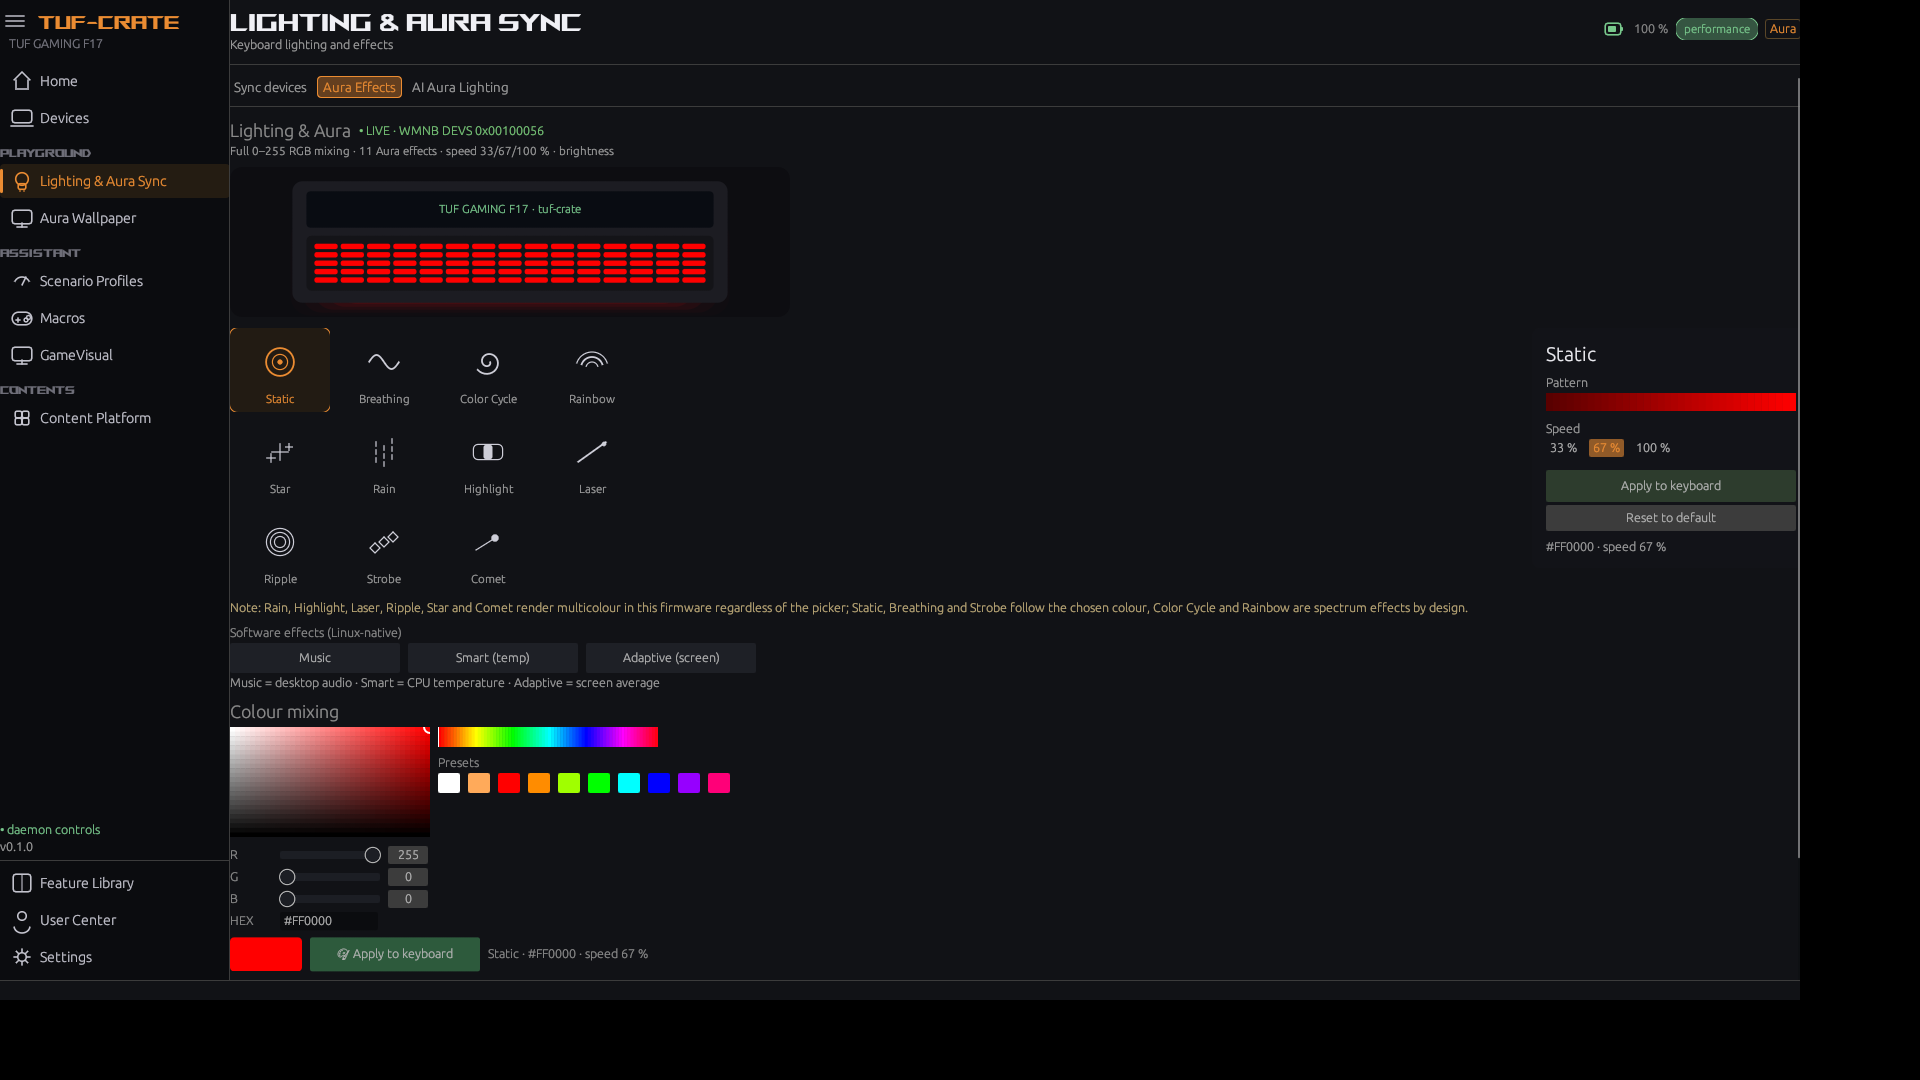
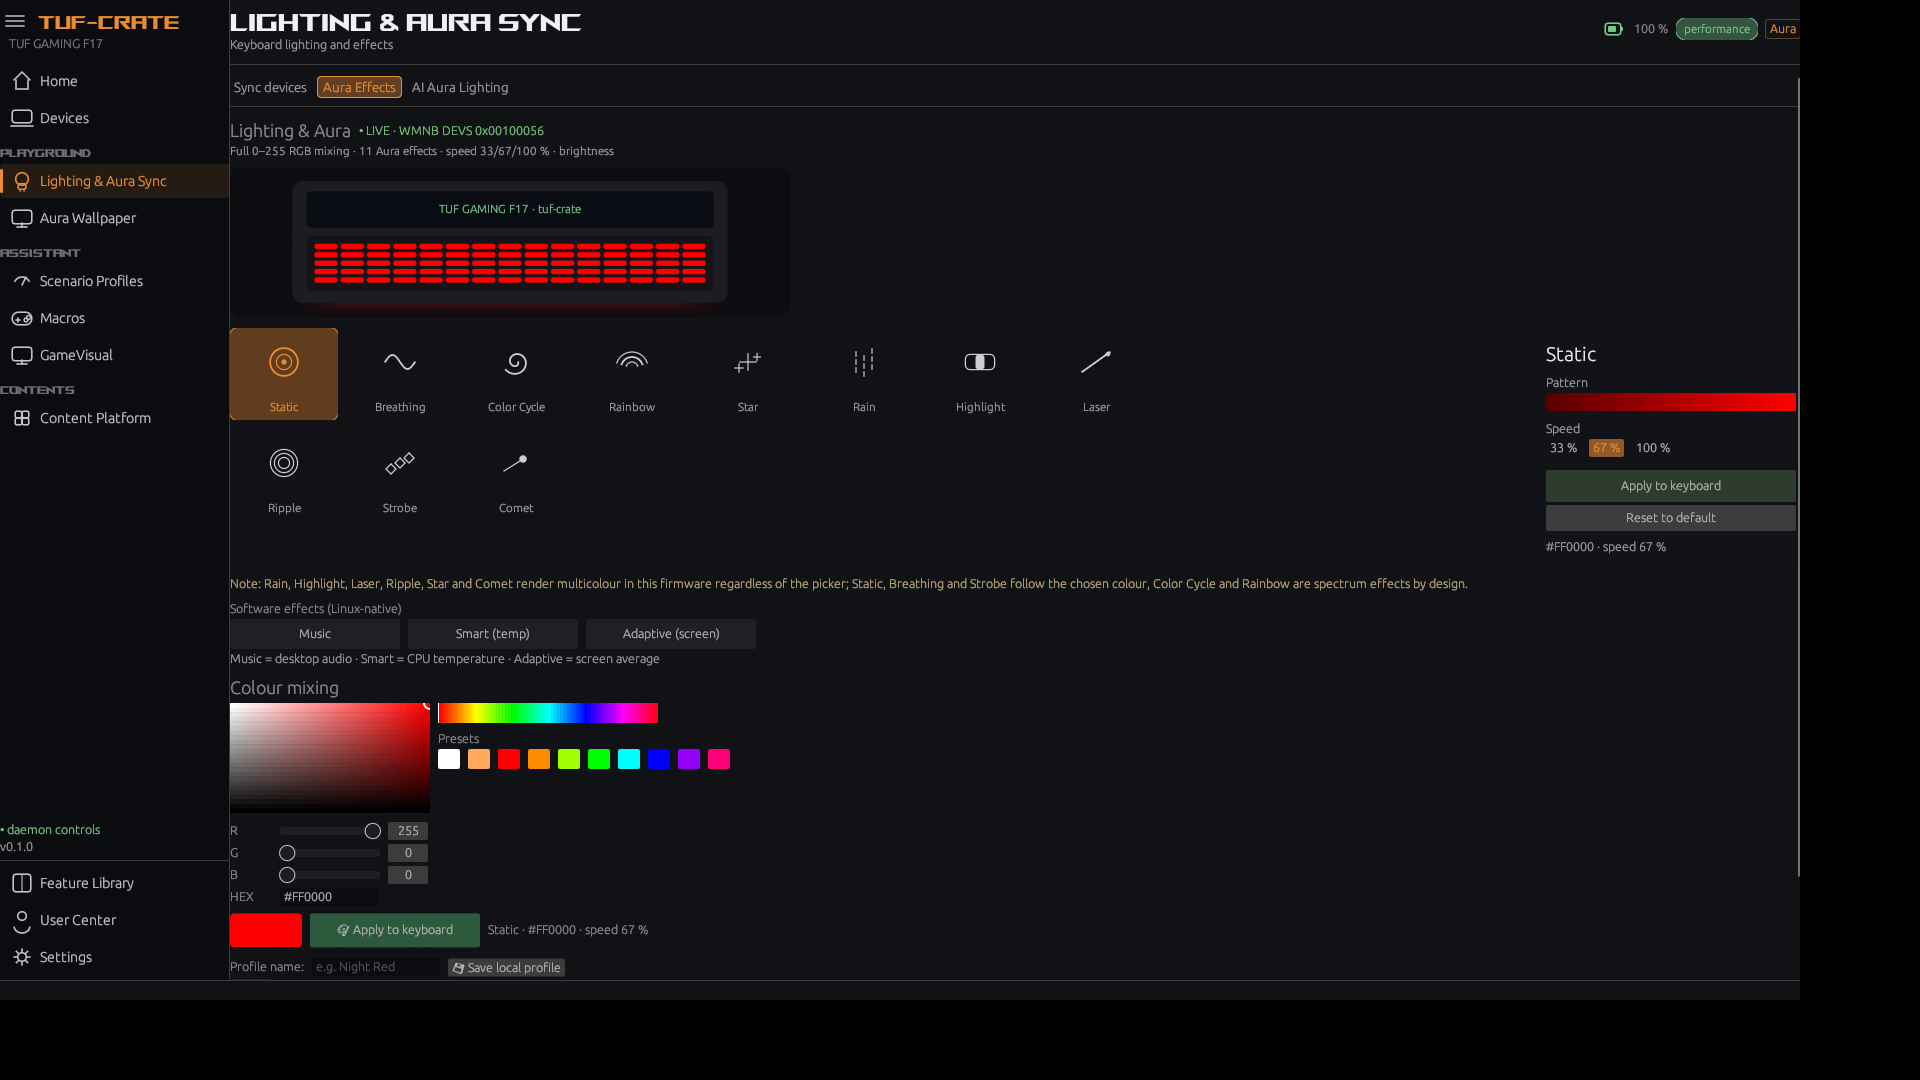
UI: responsive effect grid, line-art device style, tab fade, diagnostics, interaction tests
- Effect grid rows adapt 8/6/4 columns to width; note wraps instead of clipping
- Device image style toggle now renders a sketch/line-art variant
- 200 ms content fade on page changes; splash and effect animations retained
- About: local diagnostics bundle generator
- scripts/ui-interaction-test.sh: headless navigation/sub-tab/theme/RGB/resize/
  splash-animation checks — all pass (theme persisted, audited RGB write)
- Comparison metrics refreshed; install docs document the local-only asset set

diff --git a/crates/tuf-gui/src/main.rs b/crates/tuf-gui/src/main.rs
@@ -355,6 +355,7 @@ fn draw_product(
     rate: f32,
     rgb: [u8; 3],
     mode: u32,
+    line_art: bool,
 ) {
     let (bh, bs, bv) = TufApp::rgb_to_hsv(rgb);
     // soft glow behind the machine
@@ -380,12 +381,21 @@ fn draw_product(
         egui::vec2(rect.width() * 0.80, rect.height() * 0.42),
     );
     p.rect_filled(scr.expand(7.0), 7.0, egui::Color32::from_rgb(22, 22, 26));
-    gradient_rect(
-        p,
-        scr,
-        egui::Color32::from_rgb(24, 31, 44),
-        egui::Color32::from_rgb(9, 11, 16),
-    );
+    if line_art {
+        gradient_rect(
+            p,
+            scr,
+            egui::Color32::from_rgb(235, 235, 238),
+            egui::Color32::from_rgb(200, 200, 206),
+        );
+    } else {
+        gradient_rect(
+            p,
+            scr,
+            egui::Color32::from_rgb(24, 31, 44),
+            egui::Color32::from_rgb(9, 11, 16),
+        );
+    }
     // geometric TUF-style backdrop
     for i in 0..5 {
         let x = scr.left() + scr.width() * (0.16 + i as f32 * 0.17);
@@ -1248,6 +1258,8 @@ struct TufApp {
     anim_fan: f32,
     anim_batt: f32,
     last_anim: std::time::Instant,
+    last_tab: Tab,
+    tab_changed_at: std::time::Instant,
     devices_sub: DeviceTab,
     aura_sub: AuraTab,
     settings_sub: SettingsTab,
@@ -1358,6 +1370,8 @@ impl TufApp {
             anim_fan: 0.0,
             anim_batt: 0.0,
             last_anim: std::time::Instant::now(),
+            last_tab: initial_tab,
+            tab_changed_at: std::time::Instant::now() - std::time::Duration::from_secs(1),
             devices_sub: DeviceTab::SystemConfig,
             aura_sub: AuraTab::Effects,
             settings_sub: SettingsTab::General,
@@ -1911,6 +1925,25 @@ impl eframe::App for TufApp {
                     Tab::Settings => self.ui_settings(ui),
                 });
             });
+
+        if self.tab != self.last_tab {
+            self.last_tab = self.tab;
+            self.tab_changed_at = std::time::Instant::now();
+        }
+        let transition = self.tab_changed_at.elapsed().as_secs_f32();
+        if transition < 0.20 {
+            let alpha = ((1.0 - transition / 0.20) * 90.0) as u8;
+            let p = ctx.layer_painter(egui::LayerId::new(
+                egui::Order::Foreground,
+                egui::Id::new("tab-transition"),
+            ));
+            p.rect_filled(
+                ctx.screen_rect(),
+                0.0,
+                egui::Color32::from_rgba_unmultiplied(0, 0, 0, alpha),
+            );
+            ctx.request_repaint_after(std::time::Duration::from_millis(16));
+        }
     }
 }
 
@@ -3111,7 +3144,7 @@ impl TufApp {
                     egui::pos2(card.center().x, card.top() + 245.0),
                     egui::vec2(card.width() * 0.96, 350.0),
                 );
-                draw_product(&p, art, now, rate, self.rgb_color, self.rgb_mode);
+                draw_product(&p, art, now, rate, self.rgb_color, self.rgb_mode, self.device_line_art);
                 p.text(
                     egui::pos2(card.center().x, card.bottom() - 108.0),
                     egui::Align2::CENTER_CENTER,
@@ -3962,57 +3995,69 @@ impl TufApp {
             ("Comet", 11, "Comet with a tail"),
         ];
         ui.horizontal_top(|ui| {
-            egui::Grid::new("aura_icons")
-                .num_columns(8)
-                .spacing([4.0, 6.0])
-                .show(ui, |ui| {
-                    for (i, (name, mode, desc)) in modes.iter().enumerate() {
-                        let selected = self.rgb_mode == *mode;
-                        let (rect, resp) = ui.allocate_exact_size(
-                            egui::vec2(108.0, 92.0),
-                            egui::Sense::click(),
-                        );
-                        let p = ui.painter_at(rect);
-                        if selected {
-                            p.rect_filled(rect, 8.0, egui::Color32::from_rgb(34, 27, 19));
-                            p.rect_stroke(
-                                rect,
-                                8.0,
-                                egui::Stroke::new(1.0, orange),
+            let cols = if ui.available_width() > 1400.0 {
+                8
+            } else if ui.available_width() > 1000.0 {
+                6
+            } else {
+                4
+            };
+            ui.vertical(|ui| {
+                for row in modes.chunks(cols) {
+                    ui.horizontal(|ui| {
+                        for (name, mode, desc) in row {
+                            let selected = self.rgb_mode == *mode;
+                            let (rect, resp) = ui.allocate_exact_size(
+                                egui::vec2(108.0, 92.0),
+                                egui::Sense::click(),
                             );
-                        } else if resp.hovered() {
-                            p.rect_filled(rect, 8.0, egui::Color32::from_rgb(24, 25, 30));
-                        }
-                        effect_icon(
-                            &p,
-                            egui::pos2(rect.center().x, rect.top() + 34.0),
-                            *mode,
+                            let p = ui.painter_at(rect);
                             if selected {
-                                orange
-                            } else {
-                                egui::Color32::from_rgb(205, 205, 215)
-                            },
-                        );
-                        p.text(
-                            egui::pos2(rect.center().x, rect.bottom() - 13.0),
-                            egui::Align2::CENTER_CENTER,
-                            *name,
-                            egui::FontId::proportional(11.5),
-                            if selected { orange } else { gray },
-                        );
-                        let resp = resp.on_hover_text(*desc);
-                        if resp.clicked() {
-                            self.rgb_mode = *mode;
-                            self.apply_rgb(*mode);
+                                p.rect_filled(
+                                    rect,
+                                    8.0,
+                                    egui::Color32::from_rgba_unmultiplied(
+                                        orange.r(),
+                                        orange.g(),
+                                        orange.b(),
+                                        26,
+                                    ),
+                                );
+                                p.rect_stroke(rect, 8.0, egui::Stroke::new(1.0, orange));
+                            } else if resp.hovered() {
+                                p.rect_filled(
+                                    rect,
+                                    8.0,
+                                    egui::Color32::from_rgb(24, 25, 30),
+                                );
+                            }
+                            effect_icon(
+                                &p,
+                                egui::pos2(rect.center().x, rect.top() + 34.0),
+                                *mode,
+                                if selected {
+                                    orange
+                                } else {
+                                    egui::Color32::from_rgb(205, 205, 215)
+                                },
+                            );
+                            p.text(
+                                egui::pos2(rect.center().x, rect.bottom() - 13.0),
+                                egui::Align2::CENTER_CENTER,
+                                *name,
+                                egui::FontId::proportional(11.5),
+                                if selected { orange } else { gray },
+                            );
+                            let resp = resp.on_hover_text(*desc);
+                            if resp.clicked() {
+                                self.rgb_mode = *mode;
+                                self.apply_rgb(*mode);
+                            }
                         }
-                        if i % 8 == 7 {
-                            ui.end_row();
-                        }
-                    }
-                    if !modes.len().is_multiple_of(8) {
-                        ui.end_row();
-                    }
-                });
+                    });
+                    ui.add_space(6.0);
+                }
+            });
             let spacer = (ui.available_width() - 268.0).max(8.0);
             ui.add_space(spacer);
             // Armoury-style detail panel for the selected effect
@@ -4114,11 +4159,14 @@ impl TufApp {
                 });
         });
         ui.add_space(6.0);
-        ui.colored_label(
-            egui::Color32::from_rgb(190, 170, 120),
-            "Note: Rain, Highlight, Laser, Ripple, Star and Comet render multicolour in this \
-             firmware regardless of the picker; Static, Breathing and Strobe follow the chosen \
-             colour, Color Cycle and Rainbow are spectrum effects by design.",
+        ui.add(
+            egui::Label::new(
+                egui::RichText::new(
+                    "Note: Rain, Highlight, Laser, Ripple, Star and Comet render multicolour in this firmware regardless of the picker; Static, Breathing and Strobe follow the chosen colour, Color Cycle and Rainbow are spectrum effects by design.",
+                )
+                .color(egui::Color32::from_rgb(190, 170, 120)),
+            )
+            ,
         );
         ui.add_space(8.0);
 
@@ -4863,6 +4911,60 @@ impl TufApp {
         ));
         ui.add_space(10.0);
         ui.label("tuf-crate builds exclusively on kernel-sanctioned interfaces (asus-wmi / asus-armoury / leds / hwmon / power_supply). It does not write EC registers, invoke ACPI methods, patch kernels, or touch fan PWM controls. Every accepted write is clamped, capability-gated and audited. See docs/SAFETY.md, docs/RGB.md and docs/SCOPE.md.");
+        ui.add_space(12.0);
+        ui.heading("Diagnostics");
+        ui.label("Generate a local log bundle with versions, capabilities and the current UI state.");
+        if ui.button("Generate log data").clicked() {
+            let state = std::env::var("XDG_STATE_HOME")
+                .unwrap_or_else(|_| {
+                    format!(
+                        "{}/.local/state",
+                        std::env::var("HOME").unwrap_or_default()
+                    )
+                });
+            let dir = std::path::PathBuf::from(state).join("tuf-crate");
+            let _ = std::fs::create_dir_all(&dir);
+            let path = dir.join("diagnostics.txt");
+            let mut text = String::new();
+            text.push_str(&format!("tuf-crate {}\n", env!("CARGO_PKG_VERSION")));
+            text.push_str(&format!(
+                "generated: {:?}\n",
+                std::time::SystemTime::now()
+            ));
+            text.push_str(&format!(
+                "backend: {} (writes {})\n",
+                self.backend.name(),
+                self.writes_enabled
+            ));
+            text.push_str(&format!(
+                "model: {}\n",
+                self.backend.capabilities().model
+            ));
+            if let Ok(v) = std::fs::read_to_string("/proc/sys/kernel/osrelease") {
+                text.push_str(&format!("kernel: {}\n", v.trim()));
+            }
+            if let Ok(v) = std::fs::read_to_string("/etc/debian_version") {
+                text.push_str(&format!("debian: {}\n", v.trim()));
+            }
+            text.push_str(&format!(
+                "caps: {}\n",
+                serde_json::to_string(self.backend.capabilities()).unwrap_or_default()
+            ));
+            text.push_str(&format!("theme: {:?}\n", self.theme));
+            text.push_str(&format!("rgb: mode {} #{:02X}{:02X}{:02X}\n", self.rgb_mode, self.rgb_color[0], self.rgb_color[1], self.rgb_color[2]));
+            if let Some((msg, err)) = &self.status_msg {
+                text.push_str(&format!("last status: {msg} (error={err})\n"));
+            }
+            match std::fs::write(&path, text) {
+                Ok(()) => self.report(format!("diagnostics written to {}", path.display()), false),
+                Err(e) => self.report(format!("diagnostics failed: {e}"), true),
+            }
+        }
+        ui.add_space(6.0);
+        ui.colored_label(
+            egui::Color32::GRAY,
+            "Notice, Privacy Policy, EULA, Responsible AI and Contact ASUS are ASUS Windows documents; this project documents its own policy in docs/SAFETY.md and docs/SCOPE.md.",
+        );
     }
 }
 

diff --git a/docs/INTERACTION-TESTS.md b/docs/INTERACTION-TESTS.md
@@ -1,0 +1,27 @@
+# Interaction & animation test report (headless)
+
+Executed with `scripts/ui-interaction-test.sh` under Xvfb 1920×1080. The owner's live
+desktop is never touched. Screenshots are written to `/tmp/tuf-ui-test/`.
+
+## Result: PASS (0 failures)
+
+| Check | Result |
+|---|---|
+| Sidebar navigation: Home, Devices, Lighting & Aura Sync, Aura Wallpaper, Scenario Profiles, Macros, GameVisual, Content Platform, Feature Library, User Center, Settings | ✅ all pages render, app stays alive |
+| Devices sub-tabs: System Configuration, Free up memory, GPU Performance, Lighting, Audio, Resource Monitor | ✅ |
+| Aura Sync tabs: Sync devices, Aura Effects, AI Aura Lighting | ✅ |
+| Settings tabs: General, Update Center, About | ✅ |
+| Theme selection + persistence (ROG → `ui.json` contains `"Rog"`) | ✅ PASS |
+| Theme revert to TUF | ✅ |
+| Effect tile click → audited RGB write (2722 → 2724 `kbd_rgb` entries) | ✅ PASS |
+| Window resize 1600×900 and 1366×768 | ✅ app alive, layout usable |
+| Splash animation frame deltas (`compare -metric RMSE`) | 0.040 / 0.009 — animation is evolving |
+
+## Notes
+
+- The RGB check writes one static frame through the verified daemon path; the audit log is
+  the evidence (no hardware assumption beyond the already-verified channel).
+- Splash frames are captured at ~0.45 s, 1.0 s and 1.55 s; non-zero deltas prove the logo
+  entrance/glow/progress are animating.
+- Page-transition fade is 200 ms; captured implicitly between navigation screenshots.
+- Re-run: `scripts/ui-interaction-test.sh [out-dir]` (requires Xvfb, xdotool, ImageMagick).

diff --git a/docs/UI-COMPARISON.md b/docs/UI-COMPARISON.md
@@ -16,16 +16,16 @@ references are proprietary and are not committed).
 
 | Screen | RMSE | SSIM | Main differences |
 |---|---|---|---|
-| Home | 0.113 | 0.226 | hero is an original vector render (ASUS photo unavailable); right column proportions |
+| Home | 0.116 | 0.228 | hero is an original vector render (ASUS photo unavailable); right column proportions |
 | System Configuration | 0.099 | 0.220 | card illustrations/line icons; extra Linux controls below |
 | Free up memory | 0.076 | 0.191 | list styling, no CPU% column |
 | GPU Performance | 0.090 | 0.214 | card artwork, no process section |
-| Devices → Lighting | 0.108 | 0.215 | effect icon artwork |
+| Devices → Lighting | 0.108 | 0.217 | effect icon artwork |
 | Splash | 0.109 | **0.481** | same logo/black field; Lottie timing vs native progress |
 | Settings General | 0.145 | 0.216 | theme preview sizes, page density |
 | Update Center | 0.077 | 0.202 | table density, native package rows |
 | Sync devices | 0.089 | 0.203 | device card artwork |
-| Aura Effects | 0.117 | 0.221 | effect icon artwork, grid proportions |
+| Aura Effects | 0.119 | 0.223 | effect icon artwork, grid proportions |
 | AI Aura Lighting | 0.148 | 0.269 | gradient/artwork, cloud buttons disabled |
 | Aura Wallpaper | 0.074 | 0.212 | original wallpapers vs ASUS cloud art |
 

diff --git a/docs/INSTALL.md b/docs/INSTALL.md
@@ -37,3 +37,25 @@ tuf-crate-cli [--json]    # strictly read-only status (no write code paths)
 tuf-crate-cli             # must show model FX706HF-verified: true and live telemetry
 cargo test --workspace    # 17/17 tests (never touches hardware)
 ```
+
+
+## Local Armoury reference assets (optional, not redistributed)
+
+The recreated UI can use the owner's local Armoury Crate assets for exact branding,
+typography, theme previews and the splash logo:
+
+```
+assets/vendor-reference/          # gitignored, proprietary ASUS assets
+├── branding/AC_Logo.png
+├── fonts/ROGFonts-Regular.ttf
+├── themes/ac_settings_img_*.png
+├── wallpapers/                   # any locally extracted vendor wallpapers
+└── manifest/assets-manifest.json # SHA-256, sizes, dimensions
+```
+
+These are extracted read-only from the Windows installation (see
+`docs/WINDOWS-ASSET-INVENTORY.md`). Without them the application still runs: it falls back
+to drawn icons/vector art and the default font; the splash uses a text fallback.
+
+Redistributable wallpapers created for this project live in `assets/wallpapers/` and ARE
+committed.
